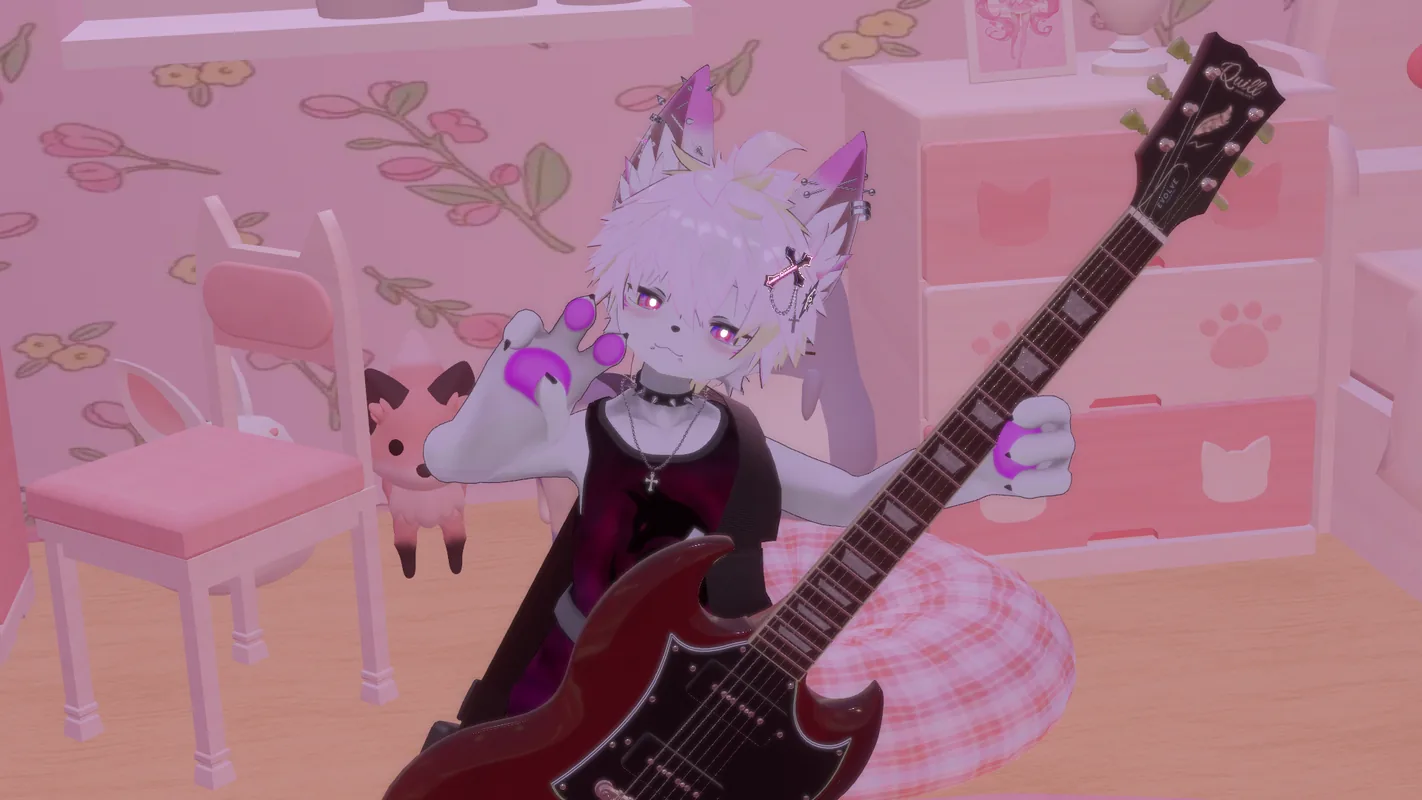
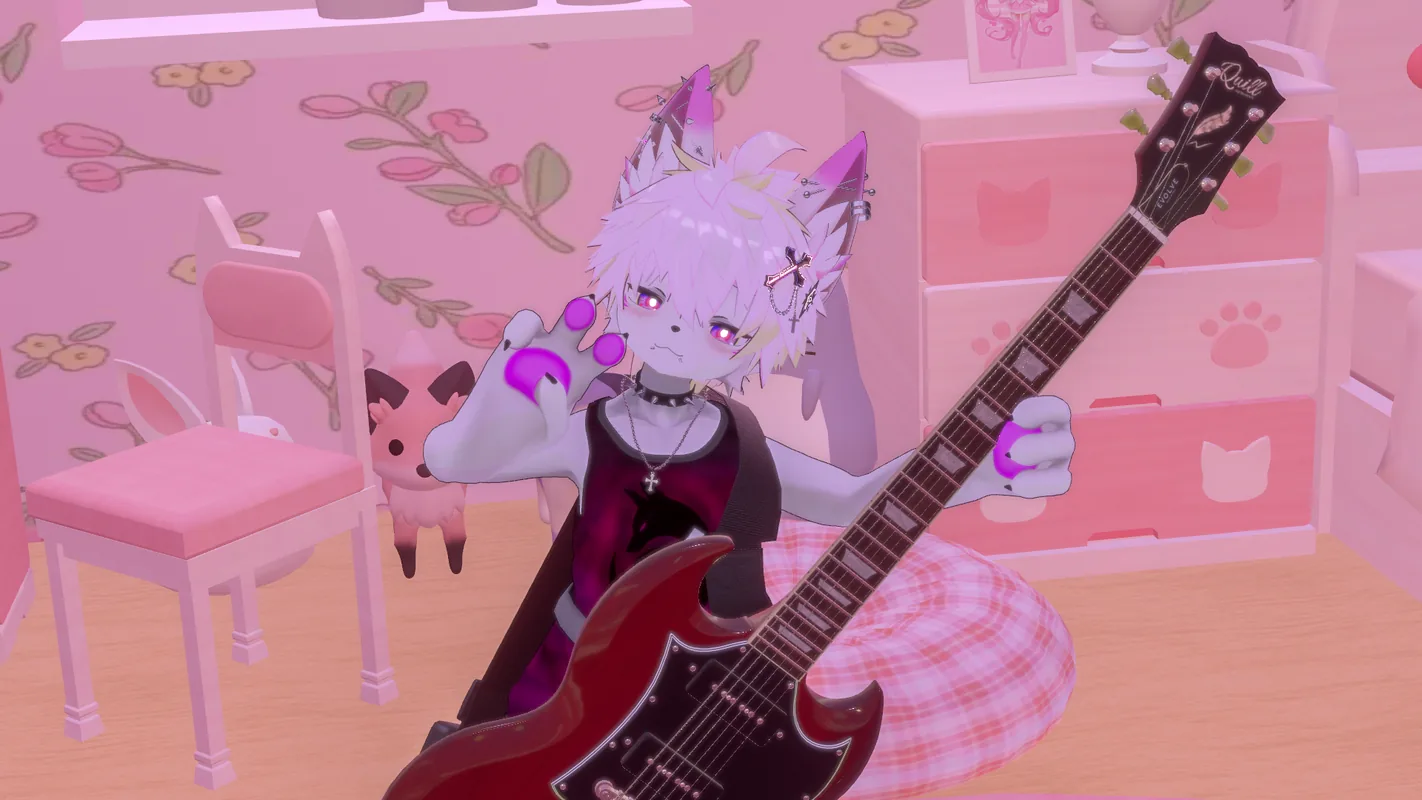
chore: update きつね profile image

diff --git a/index.html b/index.html
@@ -25,7 +25,7 @@
   <link href="https://fonts.googleapis.com/css2?family=Zen+Maru+Gothic:wght@400;500;700;900&display=swap" rel="stylesheet">
   <link rel="icon" type="image/x-icon" href="images/favicon.ico">
   <link rel="apple-touch-icon" href="images/favicon.ico">
-  <link rel="stylesheet" href="style.css?v=20260909b">
+  <link rel="stylesheet" href="style.css?v=20260912">
   <link rel="canonical" href="https://vrc-rentalpet.github.io/">
   <meta name="thumbnail" content="https://vrc-rentalpet.github.io/images/ogp.png">
   <meta name="description" content="いつものVRライフにプラス1匹！あなたのインスタンスに無言勢のペットキャストを招くキャスト出張型イベントです。VRChatの無言勢ペットキャストがあなたのインスタンスに出張訪問するイベント「VRCレンタルペットショップ」の公式サイトです。">
@@ -493,8 +493,8 @@
   </footer>
 
   <!-- ?v= はキャッシュ対策。JS/データ更新時は数字を上げると確実に再読込される -->
-  <script src="cast-data.js?v=20260909b"></script>
-  <script src="hero-photos.js?v=20260909b"></script>
-  <script src="script.js?v=20260909b"></script>
+  <script src="cast-data.js?v=20260912"></script>
+  <script src="hero-photos.js?v=20260912"></script>
+  <script src="script.js?v=20260912"></script>
 </body>
 </html>

diff --git a/cast-data.js b/cast-data.js
@@ -137,7 +137,7 @@ const CAST_DATA = [
   {
     name: 'きつね',
     vrchatName: '赤のきつね',
-    image: 'images/kitsune.webp',
+    image: 'images/kitsune.webp?v=20260912', // 同名で差し替えたので ?v= でブラウザキャッシュを回避
     description: 'どんなことにも積極的で<br>なんでも任せろ屋さんの<br>きつねなんだよ！！！',
     worldGenres: [
       '寒色系のチルワールド',
